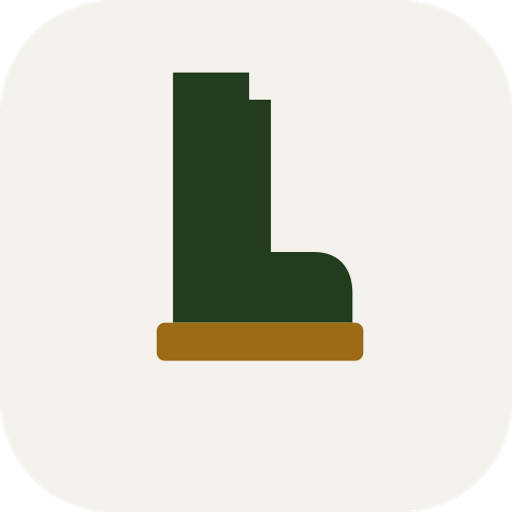
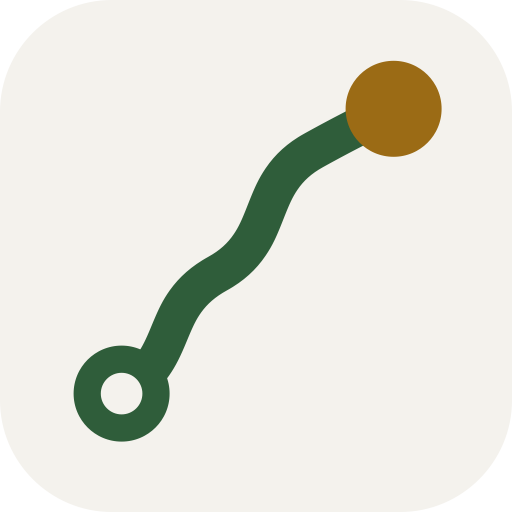
Új védjegy: a név mint nyomvonal
A régi jelnek nem a kidolgozása volt gyenge, hanem a formája: a „k”
helyén álló bakancs széles szára és talpa együtt egy L betűt adott ki,
és a név „TúrabaLancs”-nak olvasódott — a böngésző lapfülén is. Egy
jel, amit félreolvasnak, nem jel.

Helyette az, amit az oldal csinál: a vonal, ahogy a térképen kinéz —
üreges rajtpont, tömör célpont —, és balról jobbra EMELKEDIK a szó
alatt. A betűk végig betűk maradnak, tehát nincs mit félreolvasni.

Hogy a jel bármekkora szövegméretnél a helyén legyen, a vonal a saját
dobozának bal alsó sarkából megy a jobb felsőbe, a két pont pedig
ugyanezekhez a sarkokhoz van kötve — egyetlen kézzel belőtt eltolás
sincs benne. A vonal vízszintesen a szó hosszához nyúlik (a magyar és a
német név nem egyforma széles), a vastagsága viszont nem torzul vele:
azt a `vector-effect="non-scaling-stroke"` tartja.

A vonal nem egyenletesen emelkedik: a 44–52 közti szakaszon visszaesik
egy kicsit. Egy valódi nyomvonal sem megy végig felfelé, és ettől lesz
nyomvonal ahelyett, hogy aláhúzás lenne.

Az ikonok is újak. A hosszú, lapos vonal négyzetben nem működik, ezért
az ikon a tömör, meredekebb változatot kapja. A rajtpont sugara + a
vonalvastagság fele = a célpont sugara, hogy a kettő azonos súlyúnak
lássék — enélkül a gyűrű nehezebb.

Menet közben kiderült, hogy az 512-es ikon „maskable”-ként volt
megjelölve, pedig a két pont kilóg a kör alakú maszk biztonságos
zónájából (12,0 + 2,2 = 14,2 a megengedett 12,8 helyett). Kapott egy
[…]

Changed region(s): [[0.125, 0.0938, 0.875, 0.875]]

diff --git a/src/components/Vedjegy.jsx b/src/components/Vedjegy.jsx
@@ -1,30 +1,47 @@
-/* A szóvédjegy: „Túraba[bakancs]ancs”.
+/* A szóvédjegy: a név, alatta a nyomvonal.
 
-   Szövegből és egy rajzból áll, nem képfájlból — így minden méretben éles
-   marad, sötét módban magától fehérre vált, és pár száz bájt az egész.
-   Ha a saját PNG-det akarod használni, tedd a public/ mappába, és
-   átkötöm rá. */
+   A KORÁBBI JELRŐL: a „k” helyén egy bakancs állt, de a széles szár és a
+   talp együtt egy L betűt adott ki — a név „TúrabaLancs”-nak olvasódott,
+   a böngésző lapfülén is. Egy jel, amit félreolvasnak, nem jel.
+
+   AMI HELYETTE VAN: a vonal, ahogy a térképen kinéz — üreges rajtpont,
+   tömör célpont —, és balról jobbra EMELKEDIK a szó alatt. A név így nem
+   egy címke a jel mellett, hanem maga a túra. A betűk végig betűk
+   maradnak, tehát nincs mit félreolvasni.
+
+   MIÉRT ÍGY VAN MEGÍRVA: a vonal a saját dobozának bal ALSÓ sarkából megy
+   a jobb FELSŐ sarkába, a két pont pedig ugyanezekhez a sarkokhoz van
+   kötve. Így nincs egyetlen kézzel belőtt eltolás sem: a jel bármekkora
+   szövegméretnél a helyén marad.
+
+   A vonal vízszintesen nyúlik a szó hosszához (a német és a magyar név
+   nem egyforma széles), a vastagsága viszont nem torzulhat vele — ezt a
+   `vector-effect="non-scaling-stroke"` intézi. */
 
 export default function Vedjegy({ magassag = 28 }) {
   return (
     <span className="vedjegy__lockup" style={{ '--vj-magassag': `${magassag}px` }}>
-      <span className="vedjegy__betuk">Túraba</span>
-      <svg
-        className="vedjegy__bakancs"
-        viewBox="0 0 88 106"
-        role="img"
-        aria-label="k"
-      >
-        {/* Szár és lábfej egy alakzatban. A szár végig széles marad — keskeny
-            szárral a forma „L” betűnek olvasódik, nem bakancsnak. */}
-        <path
-          className="vedjegy__bor"
-          d="M14 0h28v10h8v56h16c9 0 14 6 14 15v11H14z"
-        />
-        {/* Talp: a teljes talpfelület alatt végigfut, kicsit túlnyúlva. */}
-        <rect className="vedjegy__talp" x="8" y="92" width="76" height="14" rx="3" />
-      </svg>
-      <span className="vedjegy__betuk">ancs</span>
+      <span className="vedjegy__szo">Túrabakancs</span>
+
+      <span className="vedjegy__ut" aria-hidden="true">
+        <svg
+          className="vedjegy__vonal"
+          viewBox="0 0 100 20"
+          preserveAspectRatio="none"
+          focusable="false"
+        >
+          <path
+            /* Nem egyenletes emelkedő: a 44–52 közti szakaszon visszaesik
+               egy kicsit. Egy valódi nyomvonal sem megy végig felfelé, és
+               ettől lesz nyomvonal ahelyett, hogy aláhúzás lenne. */
+            d="M0 18.6C8 18.6 10.5 16.4 17.5 15.9C24.5 15.4 26.5 12.4 34 12C41 11.6 44 13.4 52 12.4C60 11.4 62 7.6 70.5 7.1C78 6.6 80 3.9 88 2.9C93 2.3 96.5 2 100 1.7"
+            vectorEffect="non-scaling-stroke"
+          />
+        </svg>
+        {/* A két végpont: üreges rajt, tömör cél — ugyanaz, mint a térképen. */}
+        <span className="vedjegy__rajt" />
+        <span className="vedjegy__cel" />
+      </span>
     </span>
   );
 }

diff --git a/src/styles/app.css b/src/styles/app.css
@@ -858,9 +858,8 @@ input::placeholder { color: var(--muted); }
 
 /* ---------- Szóvédjegy ---------- */
 .vedjegy__lockup {
-  display: inline-flex;
-  align-items: baseline;
-  gap: 0;
+  display: inline-block;
+  position: relative;
   font-family: var(--font-vedjegy);
   font-weight: 800;
   font-size: var(--vj-magassag);
@@ -868,18 +867,59 @@ input::placeholder { color: var(--muted); }
   letter-spacing: -0.015em;
   color: var(--ink);
   white-space: nowrap;
+  /* Alul helyet hagyunk a nyomvonalnak, balra és jobbra a két pontnak.
+     Minden `em`-ben: a jel a szöveggel együtt nő. */
+  padding: 0 0.16em 0.46em;
 }
-.vedjegy__betuk { display: inline-block; }
-.vedjegy__bakancs {
-  /* A bakancs a „k” helyén áll, ezért a betűk magasságához igazodik, nem a sorhoz. */
-  height: calc(var(--vj-magassag) * 1.02);
-  width: auto;
-  align-self: flex-end;
-  margin: 0 0.02em;
-  transform: translateY(0.07em);
+.vedjegy__szo { display: block; }
+
+/* A nyomvonal doboza pontosan a szó alatt és két oldalán. A vonal ennek a
+   bal alsó sarkából megy a jobb felsőbe, a pontok ugyanezekhez a
+   sarkokhoz tapadnak — így nincs kézzel belőtt eltolás. */
+.vedjegy__ut {
+  position: absolute;
+  left: 0;
+  right: 0;
+  bottom: 0;
+  height: 0.46em;
 }
-.vedjegy__bor { fill: var(--logo-zold); }
-.vedjegy__talp { fill: var(--logo-talp); }
+.vedjegy__vonal {
+  display: block;
+  width: 100%;
+  height: 100%;
+  overflow: visible;
+}
+.vedjegy__vonal path {
+  fill: none;
+  stroke: var(--accent-ink);
+  /* Hajszálvékony a fejlécben, de sosem tűnik el: a felismerést amúgy is
+     a két pont viszi. */
+  stroke-width: max(1.4px, 0.055em);
+  stroke-linecap: round;
+  stroke-linejoin: round;
+}
+
+.vedjegy__rajt,
+.vedjegy__cel {
+  position: absolute;
+  width: 0.19em;
+  height: 0.19em;
+  border-radius: 50%;
+  transform: translate(-50%, -50%);
+}
+/* A vonal a viewBox 18,6/20 magasságában indul és 1,7/20-ban ér véget —
+   a pontok ugyanezen az arányon ülnek. */
+.vedjegy__rajt {
+  left: 0;
+  top: 93%;
+  background: var(--surface);
+  box-shadow: inset 0 0 0 max(1.4px, 0.05em) var(--accent-ink);
+}
+.vedjegy__cel {
+  left: 100%;
+  top: 8.5%;
+  background: var(--logo-talp);
+}
 
 /* ---------- Főoldal ---------- */
 .fooldal {
